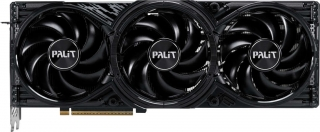
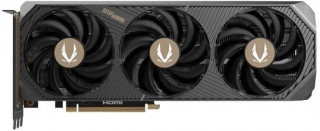
RTX 5080 Zotac Solid Core OC (Palit'in fiyatı geçiciydi); model izlemeye ACİL kontrol: sitede yanlış fiyat varsa 3 gün beklenmez

diff --git a/index.html b/index.html
@@ -504,22 +504,24 @@ const GPUS = [{
 /* 23.09.2026: Windforce OC SFF tek saticiya dustu (3 satici kurali).
    Yerine Palit GamingPro: 85.100 TL, 4 satici; Epey teknik: 332 mm uzunluk,
    127 mm yukseklik, 60 mm kalinlik (3 yuva), 16 pin guc baglantisi. */
+/* 27.09.2026: Palit GamingPro 85.100 -> 117.389 (geçici fiyattı). Zotac Solid Core OC:
+   95.549 TL, 4 satıcı; 304 mm, 2.5 yuva, 16 pin. */
 {
   id: '5080',
-  n: 'GeForce RTX 5080 16 GB (Palit GamingPro)',
+  n: 'GeForce RTX 5080 16 GB (Zotac Solid Core OC)',
   b: 'NVIDIA',
   idx: 131,
   r1440: 1.06,
   r2160: 1.14,
   vram: 16,
   tdp: 360,
-  p: 85100,
-  boy: 332,
+  p: 95549,
+  boy: 304,
   psuMin: 850,
   pin8: 3,
   p16: true,
-  kal: 60,
-  yuk: 127
+  kal: 56,
+  yuk: 116
 }, {
   id: '5090',
   n: 'GeForce RTX 5090 32 GB (MSI Ventus 3X OC)',
@@ -6627,7 +6629,7 @@ function parcaNeden(sys) {
    araması 5070 kartlarını da getiriyordu. Eşleme scripts/epey-eslesme.json,
    derleme sırasında buraya gömülür (scripts/build.mjs). Eşlemesi olmayan
    parça (panelden yeni eklenmiş) için Akakçe araması yedek olarak kalır. */
-const EPEY_LINK = {"gpu:7600":"https://www.epey.com/ekran-karti/sapphire-pulse-radeon-rx-7600-8gb.html","gpu:5060":"https://www.epey.com/ekran-karti/asus-dual-geforce-rtx-5060-oc-dual-rtx5060-o8g.html","gpu:9060xt":"https://www.epey.com/ekran-karti/asus-dual-radeon-rx-9060-xt-16gb.html","gpu:5060ti":"https://www.epey.com/ekran-karti/asus-dual-geforce-rtx-5060-ti-oc-16gb.html","gpu:9070":"https://www.epey.com/ekran-karti/gigabyte-radeon-rx-9070-gaming-oc.html","gpu:5070":"https://www.epey.com/ekran-karti/msi-geforce-rtx-5070-12g-ventus-3x-oc.html","gpu:9070xt":"https://www.epey.com/ekran-karti/xfx-swift-radeon-rx-9070xt-triple-fan-gaming-edition.html","gpu:5070ti":"https://www.epey.com/ekran-karti/gigabyte-geforce-rtx-5070-ti-windforce-oc-v2.html","gpu:5080":"https://www.epey.com/ekran-karti/palit-geforce-rtx-5080-gamingpro.html","gpu:5090":"https://www.epey.com/ekran-karti/msi-geforce-rtx-5090-ventus-3x-oc.html","cpu:8500g":"https://www.epey.com/islemci/amd-ryzen-5-8500g.html","cpu:7500f":"https://www.epey.com/islemci/amd-ryzen-5-7500f.html","cpu:7600":"https://www.epey.com/islemci/amd-ryzen-5-7600.html","cpu:245k":"https://www.epey.com/islemci/intel-core-ultra-5-245k.html","cpu:9600x":"https://www.epey.com/islemci/amd-ryzen-5-9600x.html","cpu:265k":"https://www.epey.com/islemci/intel-core-ultra-7-265k.html","cpu:9700x":"https://www.epey.com/islemci/amd-ryzen-7-9700x.html","cpu:285k":"https://www.epey.com/islemci/intel-core-ultra-9-285k.html","cpu:7800x3d":"https://www.epey.com/islemci/amd-ryzen-7-7800x3d.html","cpu:9950x3d":"https://www.epey.com/islemci/amd-ryzen-9-9950x3d.html","cpu:9800x3d":"https://www.epey.com/islemci/amd-ryzen-7-9800x3d.html","ram:16":"https://www.epey.com/bellek-ram/xpg-lancer-blade-ax5u6000c4816g-slabbk.html","ram:32":"https://www.epey.com/bellek-ram/apacer-panther-ah5u32g60c6227baa-2.html","ram:96":"https://www.epey.com/bellek-ram/crucial-pro-cp2k48g56c46u5.html","ram:64":"https://www.epey.com/bellek-ram/g-skill-ripjaws-s5-f5-6000j3636f32gx2-rs5k.html","ssd:500":"https://www.epey.com/sabit-disk/wd-blue-sn5100-500-gb.html","ssd:1t":"https://www.epey.com/sabit-disk/wd-blue-sn5100-1-tb.html","ssd:4t":"https://www.epey.com/sabit-disk/wd-blue-sn5000-4-tb.html","ssd:2t":"https://www.epey.com/sabit-disk/wd-blue-sn5100-2-tb.html","psu:550":"https://www.epey.com/power-supply-psu/msi-mag-a550bnl-550w.html","psu:650":"https://www.epey.com/power-supply-psu/msi-mag-a650bnl-650-w.html","psu:750":"https://www.epey.com/power-supply-psu/msi-mag-a750bn-750w.html","psu:850":"https://www.epey.com/power-supply-psu/msi-mag-a850gn-850w.html","psu:1000":"https://www.epey.com/power-supply-psu/msi-mag-a1000gl-1000w.html","psu:1200":"https://www.epey.com/power-supply-psu/zalman-watttera-zm1200-ebtii-1200w.html","sogutucu:air":"https://www.epey.com/islemci-sogutucu/thermalright-assassin-x-120-refined-se-argb.html","sogutucu:cift":"https://www.epey.com/islemci-sogutucu/thermalright-peerless-assassin-120.html","sogutucu:aio360":"https://www.epey.com/islemci-sogutucu/thermalright-frozen-magic-360-argb.html","sogutucu:aio360p":"https://www.epey.com/islemci-sogutucu/msi-mag-coreliquid-a13-360.html","anakart:AM5-0":"https://www.epey.com/anakart/msi-pro-a620am-g-evo-wifi.html","anakart:AM5-1":"https://www.epey.com/anakart/gigabyte-b650m-gaming-wifi6e.html","anakart:AM5-2":"https://www.epey.com/anakart/asus-b650e-max-gaming-wifi-w.html","anakart:LGA1851-0":"https://www.epey.com/anakart/msi-pro-b860m-e.html","anakart:LGA1851-1":"https://www.epey.com/anakart/msi-pro-z890-s-wifi6e.html","kasa:0":"https://www.epey.com/bilgisayar-kasasi/msi-mag-forge-m100a.html","kasa:1":"https://www.epey.com/bilgisayar-kasasi/nzxt-h3-flow-cc-h31fw-01.html","kasa:2":"https://www.epey.com/bilgisayar-kasasi/corsair-frame-4500x-rs-r-argb.html","gpu:5050":"https://www.epey.com/ekran-karti/asus-dual-geforce-rtx-5050-oc.html","cpu:245kf":"https://www.epey.com/islemci/intel-core-ultra-5-245kf.html","cpu:250kf":"https://www.epey.com/islemci/intel-core-ultra-5-250kf-plus.html","cpu:250k":"https://www.epey.com/islemci/intel-core-ultra-5-250k-plus.html","cpu:270k":"https://www.epey.com/islemci/intel-core-ultra-7-270k-plus.html","anakart:AM5-3":"https://www.epey.com/anakart/msi-mpg-x870e-edge-ti-wifi.html","kasa:3":"https://www.epey.com/bilgisayar-kasasi/lian-li-lancool-207-beyaz.html","kasa:4":"https://www.epey.com/bilgisayar-kasasi/lian-li-lancool-iii.html","kasa:5":"https://www.epey.com/bilgisayar-kasasi/lian-li-o11-dynamic-evo-rgb.html","fan:tlc12":"https://www.epey.com/kasa-fani/thermalright-tl-c12015.html","gpu:b580":"https://www.epey.com/ekran-karti/intel-arc-b580.html"};
+const EPEY_LINK = {"gpu:7600":"https://www.epey.com/ekran-karti/sapphire-pulse-radeon-rx-7600-8gb.html","gpu:5060":"https://www.epey.com/ekran-karti/asus-dual-geforce-rtx-5060-oc-dual-rtx5060-o8g.html","gpu:9060xt":"https://www.epey.com/ekran-karti/asus-dual-radeon-rx-9060-xt-16gb.html","gpu:5060ti":"https://www.epey.com/ekran-karti/asus-dual-geforce-rtx-5060-ti-oc-16gb.html","gpu:9070":"https://www.epey.com/ekran-karti/gigabyte-radeon-rx-9070-gaming-oc.html","gpu:5070":"https://www.epey.com/ekran-karti/msi-geforce-rtx-5070-12g-ventus-3x-oc.html","gpu:9070xt":"https://www.epey.com/ekran-karti/xfx-swift-radeon-rx-9070xt-triple-fan-gaming-edition.html","gpu:5070ti":"https://www.epey.com/ekran-karti/gigabyte-geforce-rtx-5070-ti-windforce-oc-v2.html","gpu:5080":"https://www.epey.com/ekran-karti/zotac-gaming-geforce-rtx-5080-solid-core-oc.html","gpu:5090":"https://www.epey.com/ekran-karti/msi-geforce-rtx-5090-ventus-3x-oc.html","cpu:8500g":"https://www.epey.com/islemci/amd-ryzen-5-8500g.html","cpu:7500f":"https://www.epey.com/islemci/amd-ryzen-5-7500f.html","cpu:7600":"https://www.epey.com/islemci/amd-ryzen-5-7600.html","cpu:245k":"https://www.epey.com/islemci/intel-core-ultra-5-245k.html","cpu:9600x":"https://www.epey.com/islemci/amd-ryzen-5-9600x.html","cpu:265k":"https://www.epey.com/islemci/intel-core-ultra-7-265k.html","cpu:9700x":"https://www.epey.com/islemci/amd-ryzen-7-9700x.html","cpu:285k":"https://www.epey.com/islemci/intel-core-ultra-9-285k.html","cpu:7800x3d":"https://www.epey.com/islemci/amd-ryzen-7-7800x3d.html","cpu:9950x3d":"https://www.epey.com/islemci/amd-ryzen-9-9950x3d.html","cpu:9800x3d":"https://www.epey.com/islemci/amd-ryzen-7-9800x3d.html","ram:16":"https://www.epey.com/bellek-ram/xpg-lancer-blade-ax5u6000c4816g-slabbk.html","ram:32":"https://www.epey.com/bellek-ram/apacer-panther-ah5u32g60c6227baa-2.html","ram:96":"https://www.epey.com/bellek-ram/crucial-pro-cp2k48g56c46u5.html","ram:64":"https://www.epey.com/bellek-ram/g-skill-ripjaws-s5-f5-6000j3636f32gx2-rs5k.html","ssd:500":"https://www.epey.com/sabit-disk/wd-blue-sn5100-500-gb.html","ssd:1t":"https://www.epey.com/sabit-disk/wd-blue-sn5100-1-tb.html","ssd:4t":"https://www.epey.com/sabit-disk/wd-blue-sn5000-4-tb.html","ssd:2t":"https://www.epey.com/sabit-disk/wd-blue-sn5100-2-tb.html","psu:550":"https://www.epey.com/power-supply-psu/msi-mag-a550bnl-550w.html","psu:650":"https://www.epey.com/power-supply-psu/msi-mag-a650bnl-650-w.html","psu:750":"https://www.epey.com/power-supply-psu/msi-mag-a750bn-750w.html","psu:850":"https://www.epey.com/power-supply-psu/msi-mag-a850gn-850w.html","psu:1000":"https://www.epey.com/power-supply-psu/msi-mag-a1000gl-1000w.html","psu:1200":"https://www.epey.com/power-supply-psu/zalman-watttera-zm1200-ebtii-1200w.html","sogutucu:air":"https://www.epey.com/islemci-sogutucu/thermalright-assassin-x-120-refined-se-argb.html","sogutucu:cift":"https://www.epey.com/islemci-sogutucu/thermalright-peerless-assassin-120.html","sogutucu:aio360":"https://www.epey.com/islemci-sogutucu/thermalright-frozen-magic-360-argb.html","sogutucu:aio360p":"https://www.epey.com/islemci-sogutucu/msi-mag-coreliquid-a13-360.html","anakart:AM5-0":"https://www.epey.com/anakart/msi-pro-a620am-g-evo-wifi.html","anakart:AM5-1":"https://www.epey.com/anakart/gigabyte-b650m-gaming-wifi6e.html","anakart:AM5-2":"https://www.epey.com/anakart/asus-b650e-max-gaming-wifi-w.html","anakart:LGA1851-0":"https://www.epey.com/anakart/msi-pro-b860m-e.html","anakart:LGA1851-1":"https://www.epey.com/anakart/msi-pro-z890-s-wifi6e.html","kasa:0":"https://www.epey.com/bilgisayar-kasasi/msi-mag-forge-m100a.html","kasa:1":"https://www.epey.com/bilgisayar-kasasi/nzxt-h3-flow-cc-h31fw-01.html","kasa:2":"https://www.epey.com/bilgisayar-kasasi/corsair-frame-4500x-rs-r-argb.html","gpu:5050":"https://www.epey.com/ekran-karti/asus-dual-geforce-rtx-5050-oc.html","cpu:245kf":"https://www.epey.com/islemci/intel-core-ultra-5-245kf.html","cpu:250kf":"https://www.epey.com/islemci/intel-core-ultra-5-250kf-plus.html","cpu:250k":"https://www.epey.com/islemci/intel-core-ultra-5-250k-plus.html","cpu:270k":"https://www.epey.com/islemci/intel-core-ultra-7-270k-plus.html","anakart:AM5-3":"https://www.epey.com/anakart/msi-mpg-x870e-edge-ti-wifi.html","kasa:3":"https://www.epey.com/bilgisayar-kasasi/lian-li-lancool-207-beyaz.html","kasa:4":"https://www.epey.com/bilgisayar-kasasi/lian-li-lancool-iii.html","kasa:5":"https://www.epey.com/bilgisayar-kasasi/lian-li-o11-dynamic-evo-rgb.html","fan:tlc12":"https://www.epey.com/kasa-fani/thermalright-tl-c12015.html","gpu:b580":"https://www.epey.com/ekran-karti/intel-arc-b580.html"};
 /* Gerçek ürün görseli (scripts/parca-gorsel.mjs -> urun/parca/<anahtar>.jpg,
    üreticinin resmî görseli, Epey ürün sayfasından). Liste derlemede gömülür.
    Görseli olmayan ya da yüklenemeyen parça eski çizim ikona döner. */

diff --git a/src/setuphane.html b/src/setuphane.html
@@ -352,7 +352,9 @@ const GPUS=[
  /* 23.09.2026: Windforce OC SFF tek saticiya dustu (3 satici kurali).
     Yerine Palit GamingPro: 85.100 TL, 4 satici; Epey teknik: 332 mm uzunluk,
     127 mm yukseklik, 60 mm kalinlik (3 yuva), 16 pin guc baglantisi. */
- {id:'5080',   n:'GeForce RTX 5080 16 GB (Palit GamingPro)', b:'NVIDIA', idx:131, r1440:1.06, r2160:1.14, vram:16, tdp:360, p:85100, boy:332, psuMin:850,  pin8:3, p16:true, kal:60, yuk:127},
+ /* 27.09.2026: Palit GamingPro 85.100 -> 117.389 (geçici fiyattı). Zotac Solid Core OC:
+    95.549 TL, 4 satıcı; 304 mm, 2.5 yuva, 16 pin. */
+ {id:'5080',   n:'GeForce RTX 5080 16 GB (Zotac Solid Core OC)', b:'NVIDIA', idx:131, r1440:1.06, r2160:1.14, vram:16, tdp:360, p:95549, boy:304, psuMin:850,  pin8:3, p16:true, kal:56, yuk:116},
  {id:'5090',   n:'GeForce RTX 5090 32 GB (MSI Ventus 3X OC)',       b:'NVIDIA', idx:168, r1440:1.16, r2160:1.36, vram:32, tdp:575, p:335999, boy:325, psuMin:1000, pin8:4, p16:true, kal:67, yuk:139},
 ];
 /* İşlemci markası soketten türer — ayrı alan tutmaya gerek yok. */

diff --git a/DURUM.md b/DURUM.md
@@ -573,3 +573,9 @@ Kullanıcı: "yükselt kısmı çok zayıf; RAM vs seçimlerle performans puanla
 - Uydurma sayı yok: kart puanı TechPowerUp; RAM/güç/görüntü belleği kuralları motorla aynı; fiyatlar katalogdan.
 - **cpuBant düzeltildi:** eski yöntem Ryzen 5 7600'dan zayıf her işlemciye "bekletir" diyordu (katalogdaki en zayıf referans o). Yeni yöntem sitenin FPS modelini kullanıyor: gereken g = idx·resKat·k·mul/ck; eski işlemcinin g'si 7600'a oranla tahmin (±%15), sonuç üç bant.
 - Varsayılan öneri: işlemcinin ağır oyunda RAHAT beslediği en güçlü kart (3600 -> RTX 5060 Ti; 13600K -> RX 9070 XT + 850 W + 32 GB). Daha güçlüsü "İŞLEMCİN SINIRDA" etiketiyle.
+
+### 27.09.2026 — Bot sağlığı
+- Bot 26 ve 27 Eylül'de 10:00'da çalışmadı (bilgisayar kapalı/uykuda; "uyandır" kapalı). 27.09 23:14'te açılınca başladı ama konsol penceresi kapanınca yarıda kaldı (0xC000013A). Elle çalıştırıldı, 16 fiyat güncellendi.
+- Model izleme 25.09'da "curl ENOENT" ile çalışmamıştı: tarama betikleri düz 'curl' çağırıyordu, Görev Zamanlayıcı'da curl yolda yok. Hepsi artık process.env.CURL kullanıyor.
+- RTX 5080 Palit GamingPro'nun 85.100'lük fiyatı geçiciymiş (117.389'a çıktı; bot 3 gün bekletirken sitede %10 düşük fiyat kaldı). Zotac Solid Core OC'ye geçildi (95.549, 4 satıcı, 304 mm).
+- model-izle.mjs'e ACİL kontrol: bizim modelin canlı fiyatı sitedekinden %15+ yüksekse 3 gün beklenmez, bildirim çıkar.
